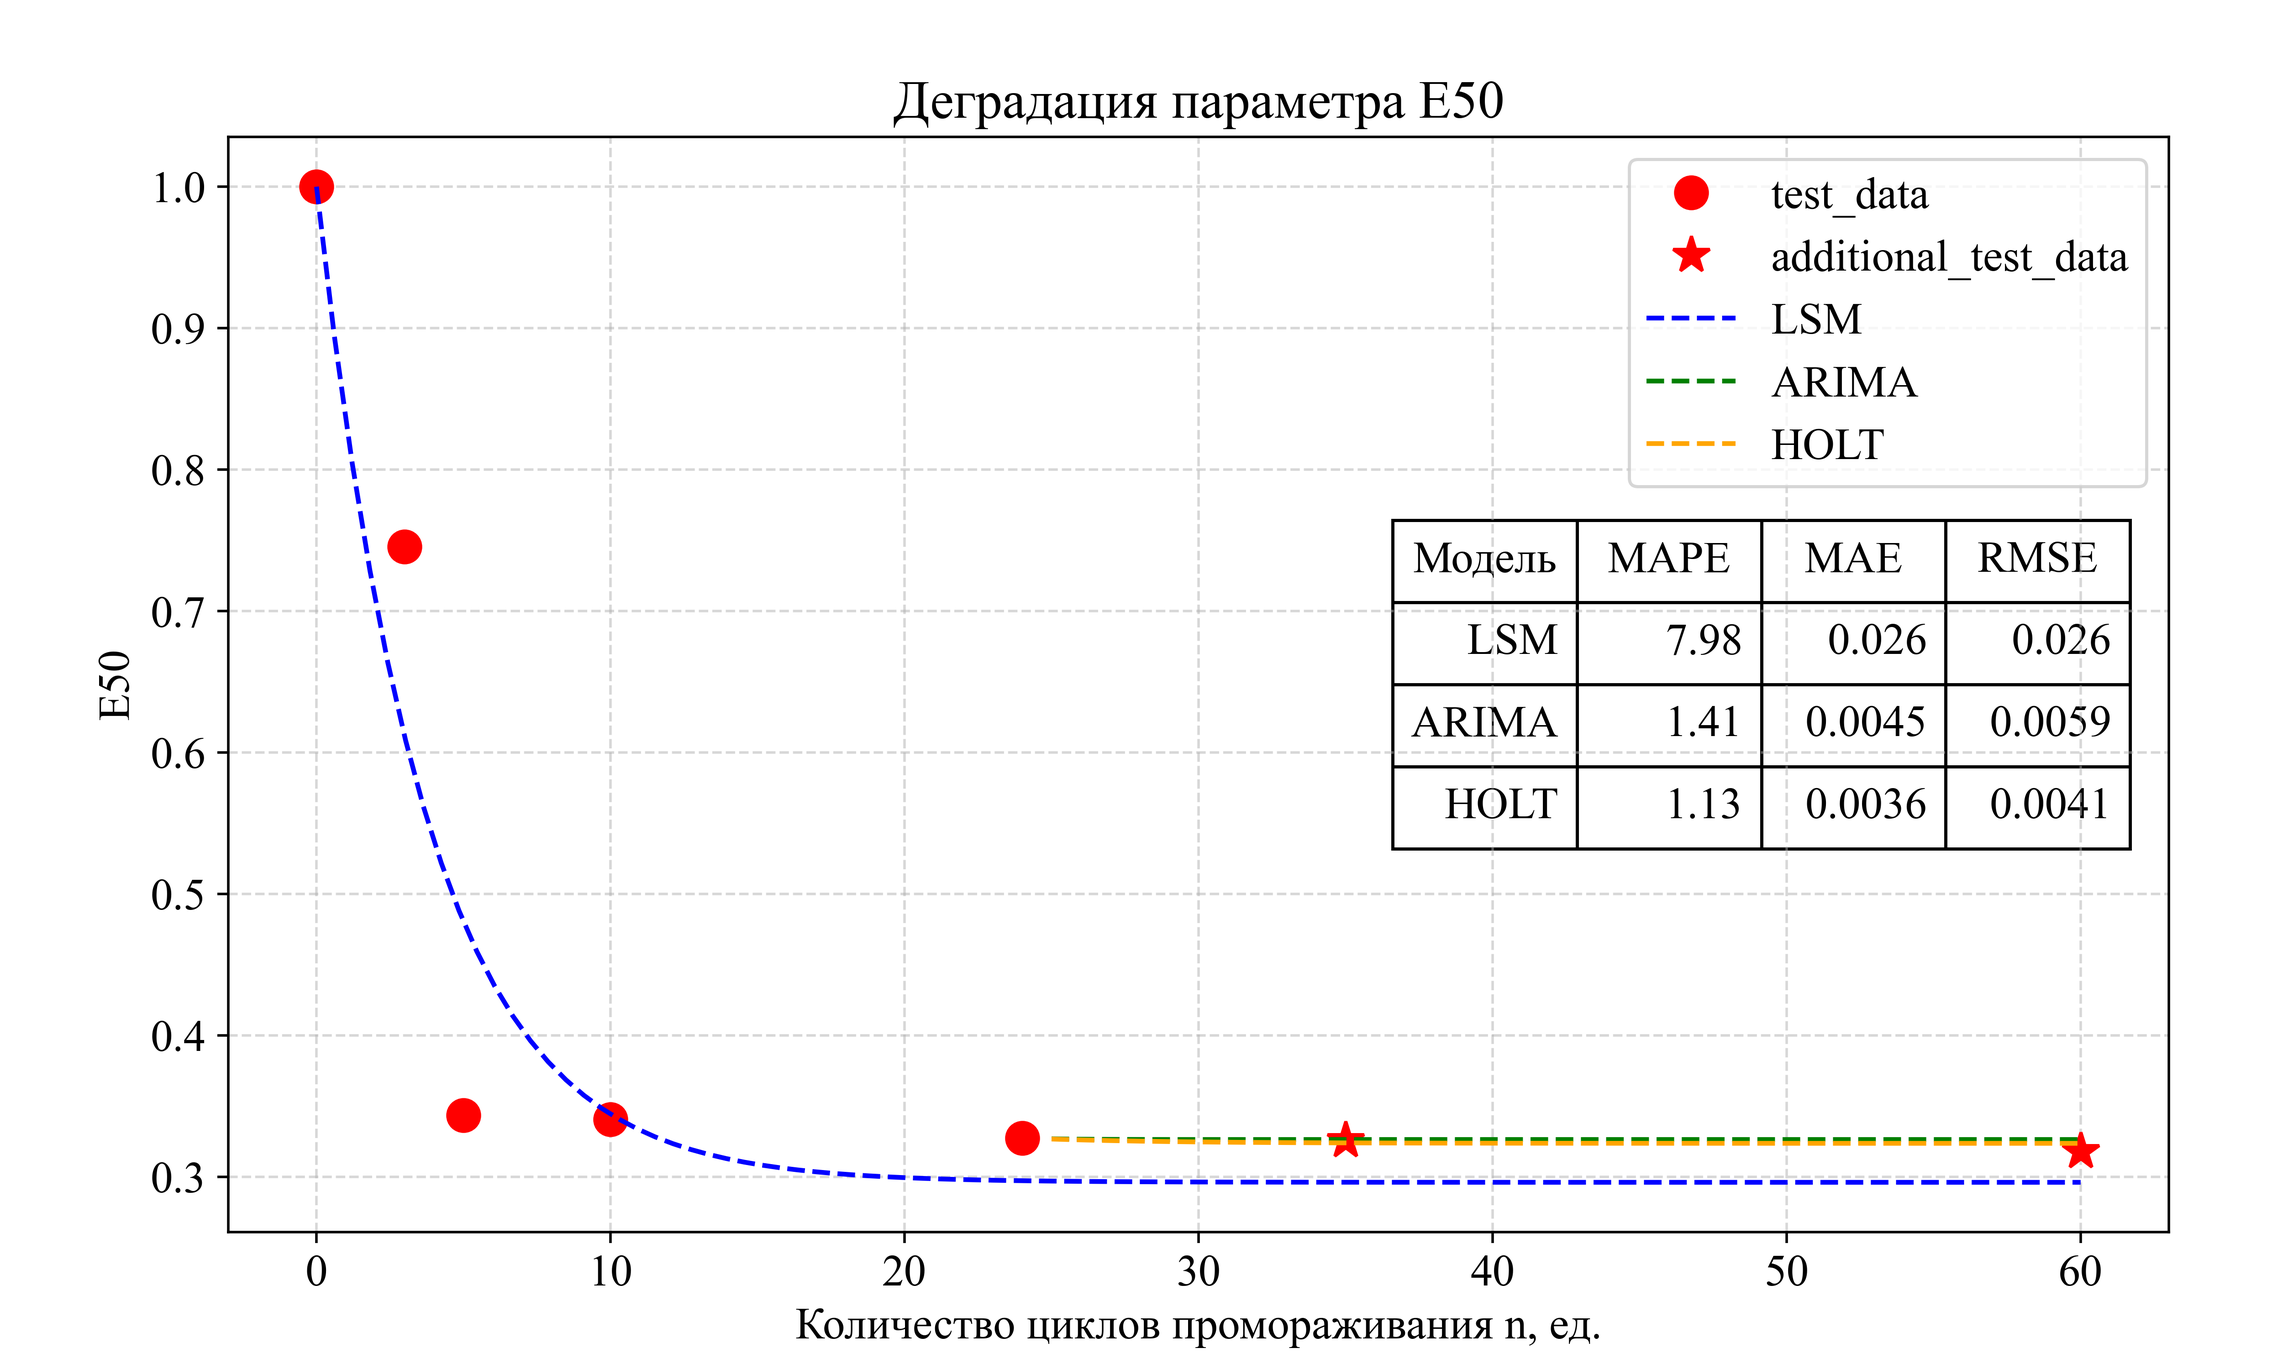
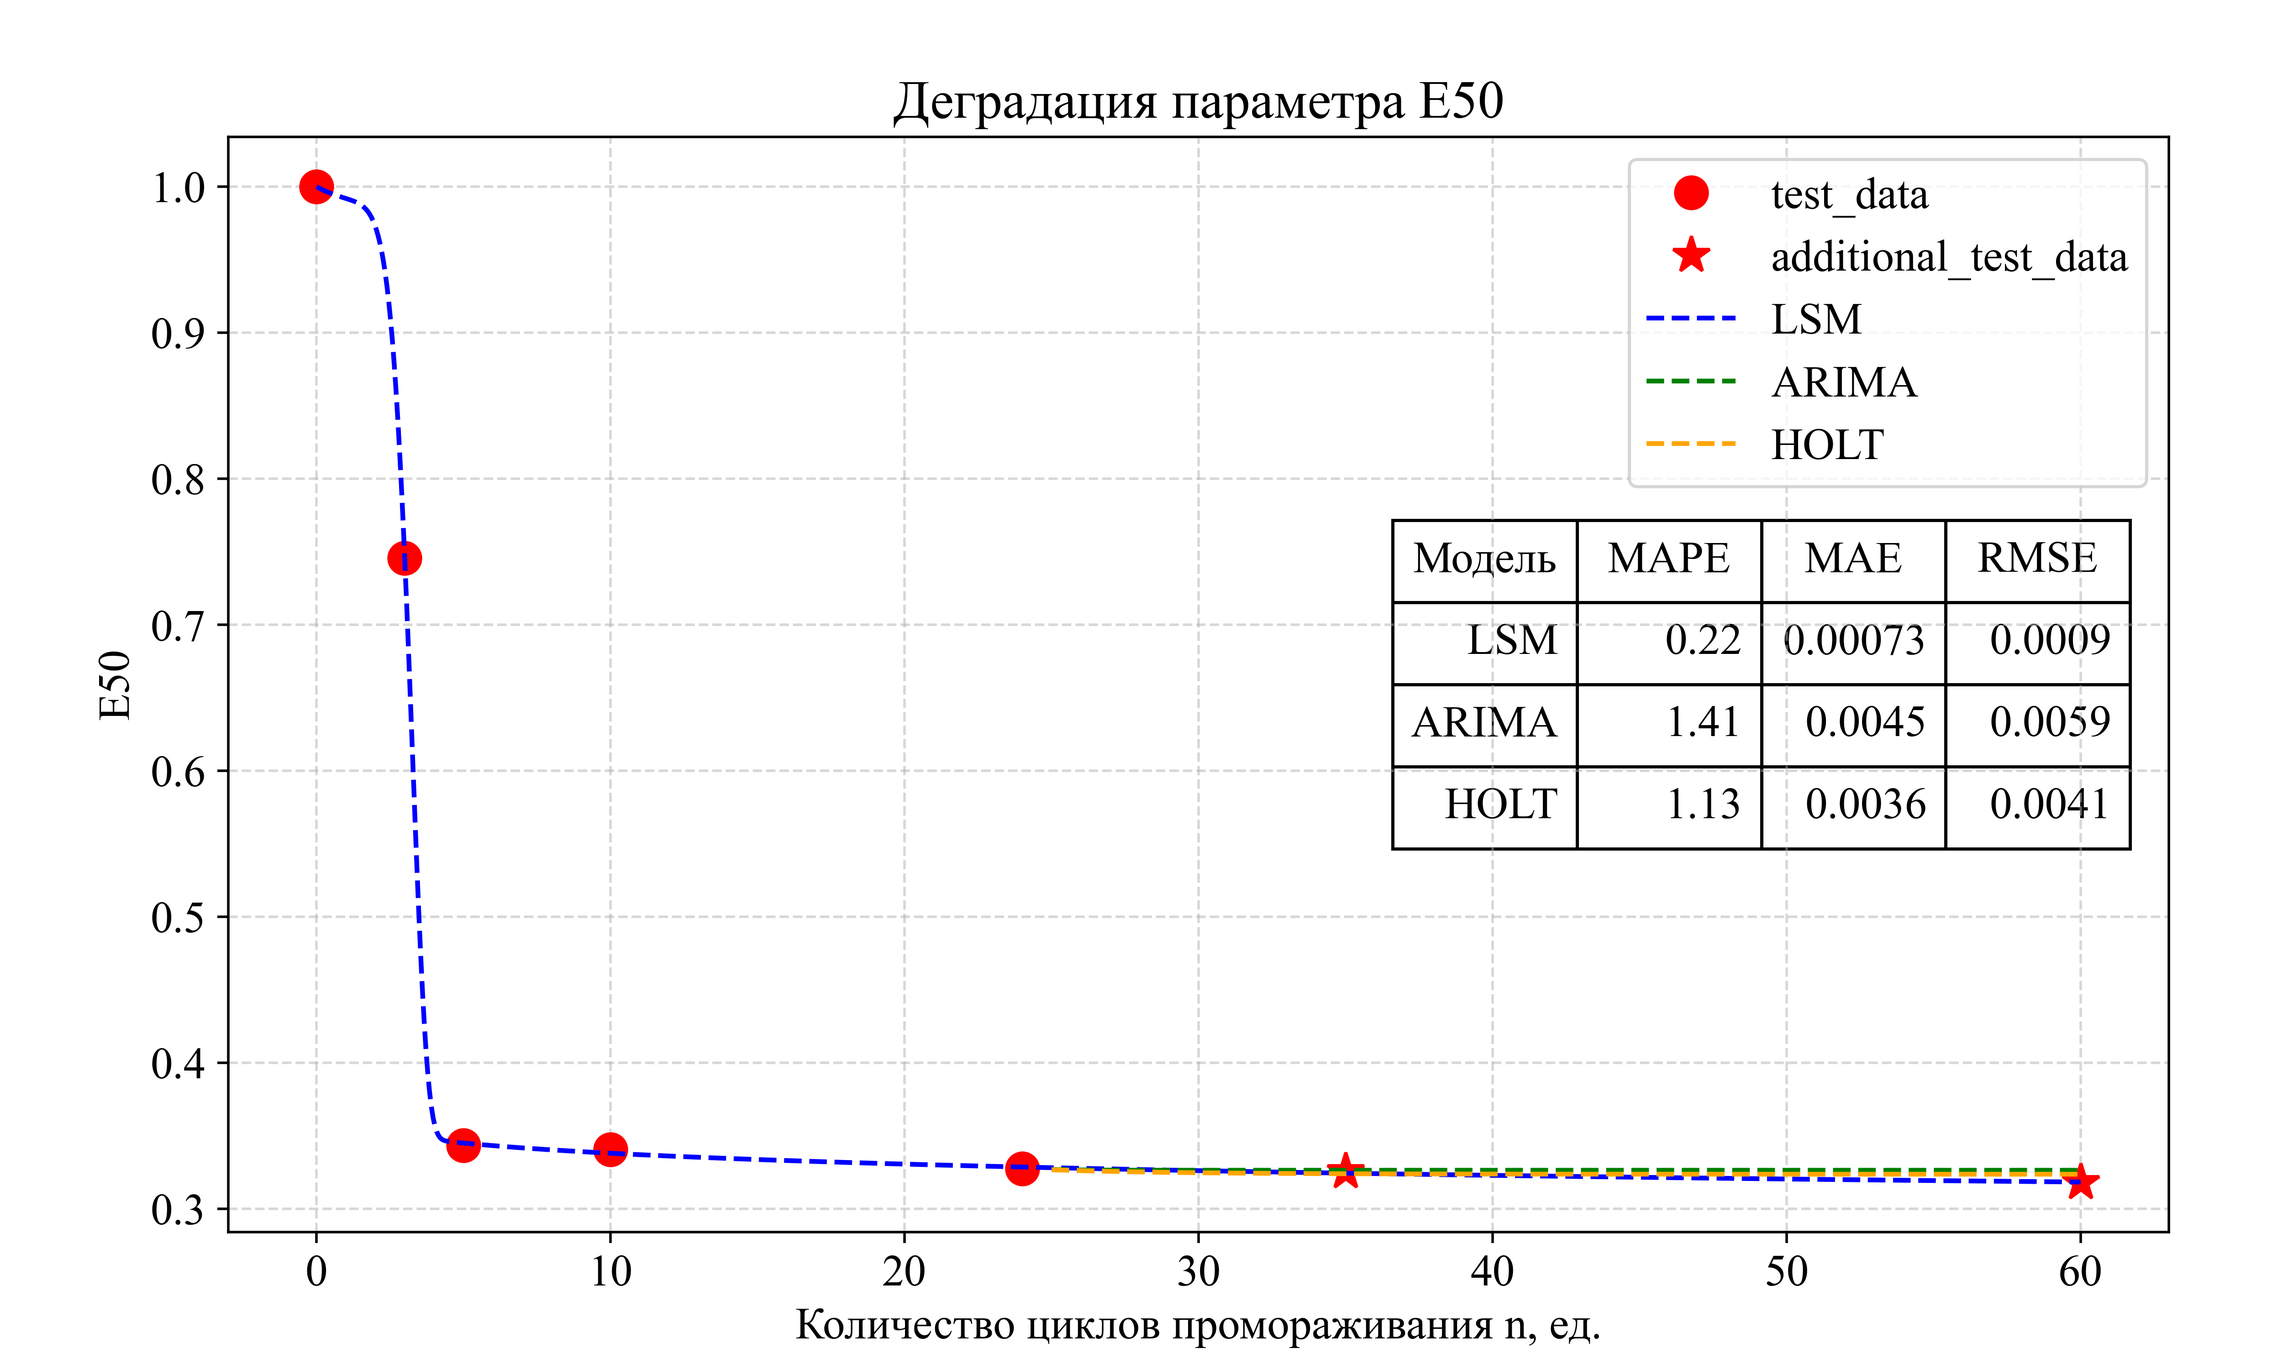
feat: new math model

diff --git a/scripts/math_model.py b/scripts/math_model.py
@@ -1,108 +1,122 @@
+"""
+Модуль подгонки суперпозиционной модели деградации свойст грунтов при многократном промерзании.
+
+Формула модели::
+
+    p_norm(N) = p_inf + (1 - p_inf) * exp(-(lam * N)**gamma) - alpha * ln(1 + N)
+
+где
+    * ``p_inf``  – остаточное (стабилизировавшееся) значение свойства (0 < p_inf ≤ 1);
+    * ``lam``    – коэффициент, аккумулирующий действие физических факторов (> 0);
+    * ``gamma``  – показатель «резкости» начального спада (> 0);
+    * ``alpha``  – коэффициент логарифмического накопления повреждений (>= 0).
+
+"""
+from typing import Tuple
 import numpy as np
-from typing import Tuple, Optional
 from scipy.optimize import curve_fit
-from functools import partial
 
-def degradation_model(N: np.ndarray, A: float, B: float, C: float, D: float) -> np.ndarray:
+__all__ = [
+    "superposition_model",
+    "fit_superposition_model",
+]
+
+
+def superposition_model(
+        N: np.ndarray,
+        p_inf: float,
+        lam: float,
+        gamma: float,
+        alpha: float
+) -> np.ndarray:
+    """Возвращает значение нормированного параметра после N циклов.
+
+    :param N: массив номеров циклов.
+    :param p_inf: остаточное стабилизировавшееся значение.
+    :param lam: интегральный коэффициент влияния физических факторов (>0).
+    :param gamma: показатель резкости начального спада (>0).
+    :param alpha: коэффициент логарифмической части (≥0).
+    :return: массив p_norm той же формы, что и N.
     """
-    Экспоненциально-логарифмическая модель деградации:
+    return p_inf + (1.0 - p_inf) * np.exp(-np.power(lam * N, gamma)) - alpha * np.log1p(N)
 
-    D(N) = 1 - A * (1 - exp(-B * N)) + С * ln(N + 1)
 
-    :param N: массив номеров циклов (целые >= 0)
-    :param A: Начальное значение при 0 цикле
-    :param B: вклад экспоненциальной фазы (>= 0)
-    :param C: скорость насыщения экспоненты (>= 0)
-    :param D: коэффициент логарифмической фазы (>= 0)
-    :return: массив значений относительной деградации D(N)
+def _normalize(y: np.ndarray) -> Tuple[np.ndarray, float]:
+    """Нормирует измеренные значения по первому элементу.
+
+    :param y: массив абсолютных измерений свойства (shape (M,)).
+    :return: кортеж (p_norm, y_max), где
+             p_norm – нормированные значения,
+             y_max – первое измеренное значение, принятое за 1.
     """
-    return A - B * (1 - np.exp(-C * N)) - D * np.log1p(N + 1)
-
-def simplified_degradation_model(N: np.ndarray, B: float, C: float, D: float) -> np.ndarray:
-    return degradation_model(N, A=1.0, B=B, C=C, D=D)
-
-
-def normalize_values(y: np.ndarray) -> Tuple[np.ndarray, float]:
-    """
-    Нормализует значения по максимальному элементу:
-
-    D_i = yi / y_max
-
-    :param y: массив исходных значений свойства (y0, y1, ..., yM)
-    :return: кортеж (D, y_max) — массив нормализованной деградации и начальное значение
-    """
-    y_max = np.max(y)
-    if y_max == 0:
-        raise ValueError("Первое значение y_max не может быть нулевым для нормализации.")
-    D = y / y_max
-    return D, y_max
+    if y.size == 0:
+        raise ValueError("Пустой массив измерений.")
+    y_max = float(y[0])
+    if y_max <= 0:
+        raise ValueError("Первое значение должно быть положительным.")
+    return y / y_max, y_max
 
 
-def fit_degradation_model(
+def fit_superposition_model(
         N: np.ndarray,
         y: np.ndarray,
-        A: Optional[bool] = True
-) -> Tuple[Tuple[float, float, float], np.ndarray]:
-    """
-    Подбирает параметры модели деградации методом наименьших квадратов.
+        bounds: Tuple[Tuple[float, float, float, float],
+                       Tuple[float, float, float, float]] | None = None,
+        p0: Tuple[float, float, float, float] | None = None
+        ) -> Tuple[Tuple[float, float, float, float], np.ndarray]:
+    """Подбирает параметры суперпозиционной модели методом наименьших квадратов.
 
-    :param N: массив номеров циклов (shape (M+1,))
-    :param y: массив измеренных значений свойства после Ni циклов (shape (M+1,))
-    :param normalize: если True, сначала нормализует y относительно y_max
-    :return: кортеж (params, D_norm), где
-             params = (A_est, B_est, C_est),
-             D_norm = массив нормализованных значений D_i
+    :param N: массив номеров циклов (shape (M,)).
+    :param y: массив измеренных абсолютных значений свойства (shape (M,)).
+    :param bounds: границы параметров в формате (lower, upper); если *None* –
+                   используются значения по умолчанию ((0,1e-8,1e-8,0), (1,10,10,1)).
+    :param p0: начальное приближение параметров; если *None*, оценивается автоматически.
+    :return: кортеж (params, p_norm_pred), где
+             params – оценённые параметры (p_inf, lam, gamma, alpha),
+             p_norm_pred – прогноз нормированных значений свойства на заданных *N*.
+    :raises ValueError: если формы N и y не совпадают или «циклы» отрицательные.
     """
-    # Проверка формата входа
     if N.shape != y.shape:
         raise ValueError("Массивы N и y должны иметь одинаковую форму.")
+    if np.any(N < 0):
+        raise ValueError("Число циклов не может быть отрицательным.")
 
-    # Нормализация
-    D, y_max = normalize_values(y)
+    p_norm, p_max = _normalize(y)
 
-    # Границы параметров: все неотрицательные
-    bounds = (0, 3)
+    if bounds is None:
+        bounds = ((0.0, 1e-8, 1e-8, 0.0), (1.0, 10.0, 10.0, 1.0))
 
-    # Начальная догадка:
-    #   B0 — размах экспоненциальной фазы ≈ D[-1]
-    #   C0 — скорость насыщения ≈ 1 / (последний N)
-    #   D0 — вклад логарифмической фазы ≈ 10% от D[-1]
-    A0 = float(np.max(D))
-    B0 = float(np.min(D))
-    C0 = 1
-    D0 = 0.00001
+    if p0 is None:
+        p0 = (float(p_norm[-1]),         # p_inf – примерно последнее значение
+              1.0 / (N[-1] + 1e-6),      # lam   – порядок 1 / N_max
+              1.0,                       # gamma – экспоненциальный режим
+              0.01)                      # alpha – небольшой
 
-    if A:
-        p0 = [A0, B0, C0, D0]
+    popt, _ = curve_fit(superposition_model, N, p_norm,
+                        p0=p0, bounds=bounds, method="trf")
 
-        popt, _ = curve_fit(
-            f=degradation_model,
-            xdata=N,
-            ydata=D,
-            p0=p0,
-            bounds=bounds,
-            method='trf'
-        )
+    return tuple(map(float, popt)), p_norm, p_max
 
-        A_est, B_est, C_est, D_est = popt
-    else:
-        B0 = float(np.min(D))
-        C0 = 1
-        D0 = 0.00001
-        p0 = [B0, C0, D0]
 
-        # Подгонка модели четырёх параметров
-        popt, _ = curve_fit(
-            f=simplified_degradation_model,
-            xdata=N,
-            ydata=D,
-            p0=p0,
-            bounds=bounds,
-            method='trf'
-        )
+if __name__ == "__main__":
+    import argparse
 
-        # Распаковываем все четыре параметра
-        B_est, C_est, D_est = popt
-        A_est = 1.0
+    N = np.array([0, 3, 5, 10, 24])
+    D = np.array([23.91666667, 17.83333333, 8.21666667, 8.15, 7.83333333])
 
-    return (A_est, B_est, C_est, D_est), D
+    params, p_pred, p_max = fit_superposition_model(N, D)
+
+    print("p_inf  = {:.6f}".format(params[0]))
+    print("lam    = {:.6f}".format(params[1]))
+    print("gamma  = {:.6f}".format(params[2]))
+    print("alpha  = {:.6f}".format(params[3]))
+
+    print("\n----- Прогноз p_norm -----")
+    for n, p in zip(N.astype(int), p_pred):
+        print(f"N={n:4d}: p_norm={p: .6f}")
+
+    import matplotlib.pyplot as plt
+    plt.scatter(N, D, c="b", marker="o")
+
+    plt.plot(np.linspace(0, 30, 100), p_max * superposition_model(np.linspace(0, 30, 100), *params), color="b")
+    plt.show()

diff --git a/main.py b/main.py
@@ -1,11 +1,13 @@
 import numpy as np
+from altair import param
+
 from logger_config import logger
 from pprint import pformat
 
 # 📦 Импорт модели деградации и процедуры подбора параметров
 from scripts.math_model import (
-    fit_degradation_model,         # МНК-подбор параметров A, B, C, D
-    degradation_model              # Вычисление модели деградации по параметрам
+    fit_superposition_model,         # МНК-подбор параметров
+    superposition_model              # Вычисление модели деградации по параметрам
 )
 
 # 📈 Импорт функций анализа временных рядов
@@ -42,14 +44,8 @@ forecast_cycles_count = int(60 - np.max(N))
 
 # ⚙ Подбор параметров модели
 logger.info("▶ Начинается подбор параметров МКЭ")
-(A_est, B_est, C_est, D_est), D_norm = fit_degradation_model(
-    N=N,
-    y=D,
-    A=False
-)
-logger.success(f"✅ Подбор параметров МКЭ завершен. A={A_est}, B={B_est}, C={C_est}, D={D_est}")
-
-#A_est, B_est, C_est, D_est = 1.0, 0.657, 0.574, 0.0087
+params, D_norm, p_max = fit_superposition_model(N, D)
+logger.success(f"✅ Подбор параметров МКЭ завершен. p_inf={params[0]}, lam={params[1]}, gamma={params[2]}, alpha={params[3]}")
 
 
 logger.info("▶ Построение прогноза ARIMA...")
@@ -84,7 +80,7 @@ indices = (N_additional - (last_n + 1)).astype(int)
 
 # Формируем словарь с прогнозами
 predictions = {
-    'LSM':   (N_additional, degradation_model(N_additional, A=A_est, B=B_est, C=C_est, D=D_est)),
+    'LSM':   (N_additional, superposition_model(N_additional, *params)),
     'ARIMA': (N_additional, arima_forecast[indices]),
     'HOLT':  (N_additional, holt_forecast[indices]),
 }
@@ -104,8 +100,8 @@ plot_degradation(
             'D': D_additional_norm.tolist(),
         },
         'LSM': {
-            'N': np.linspace(0, last_n + forecast_cycles_count, 100),
-            'D': degradation_model(np.linspace(0, last_n + forecast_cycles_count, 100), A=A_est, B=B_est, C=C_est, D=D_est),
+            'N': np.linspace(0, last_n + forecast_cycles_count, 1000),
+            'D': superposition_model(np.linspace(0, last_n + forecast_cycles_count, 1000), *params),
         },
         'ARIMA': {
             'N': forecast_n.tolist(),
